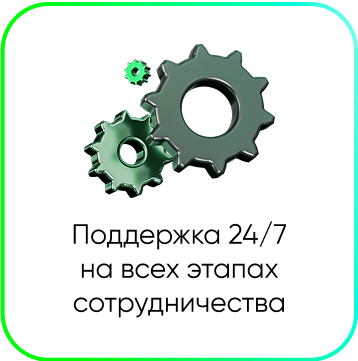
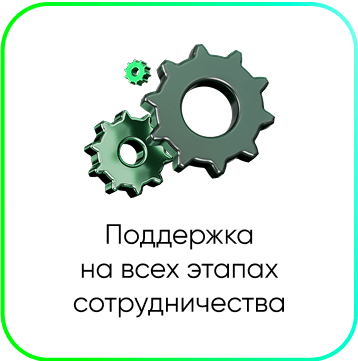
change mik-214

Changed region(s): [[0.1844, 0.6094, 0.7989, 0.7008]]

diff --git a/mik-214/Запуск сервиса «Техномаркет».html b/mik-214/Запуск сервиса «Техномаркет».html
@@ -911,7 +911,7 @@
                                         <tbody>
                                         <tr>
                                             <td style="width:179px;">
-                                                <img alt="Поддержка 24/7 на всех этапах сотрудничества" height="auto" src="https://cp.unisender.com/ru/user_file?resource=images&user_id=5608985&name=mik-214-content-img-4_3.png" style="border:0;display:block;outline:none;text-decoration:none;height:auto;width:100%;font-size:13px;" width="179" />
+                                                <img alt="Поддержка на всех этапах сотрудничества" height="auto" src="https://cp.unisender.com/ru/user_file?resource=images&user_id=5608985&name=mik-214-content-img-4_3.png" style="border:0;display:block;outline:none;text-decoration:none;height:auto;width:100%;font-size:13px;" width="179" />
                                             </td>
                                         </tr>
                                         </tbody>
